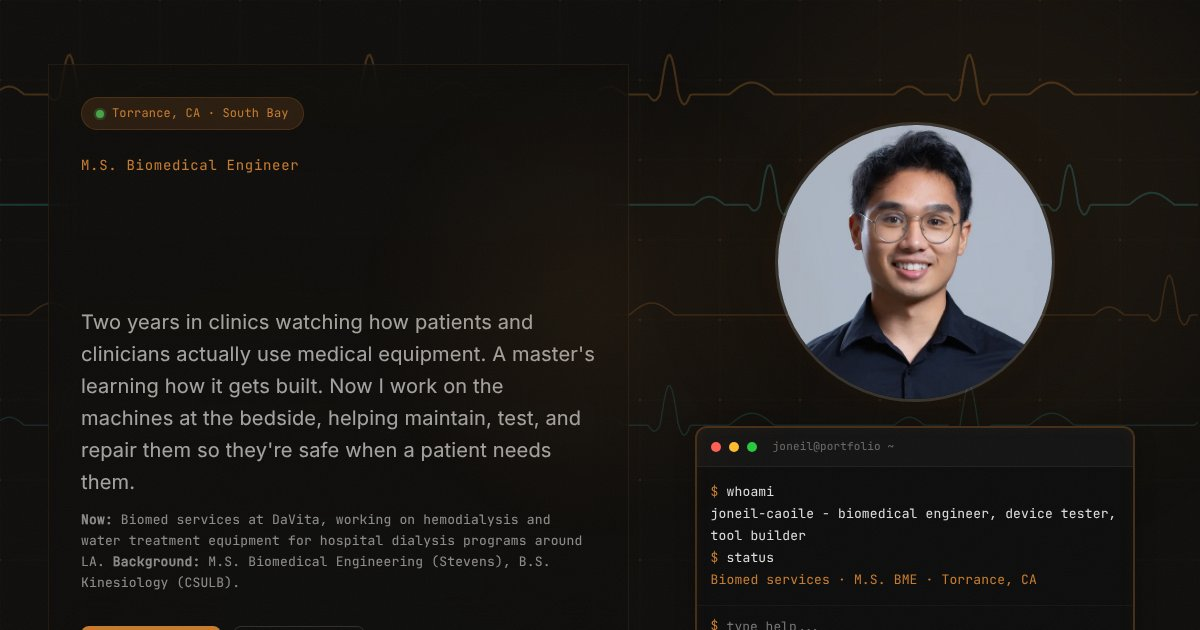
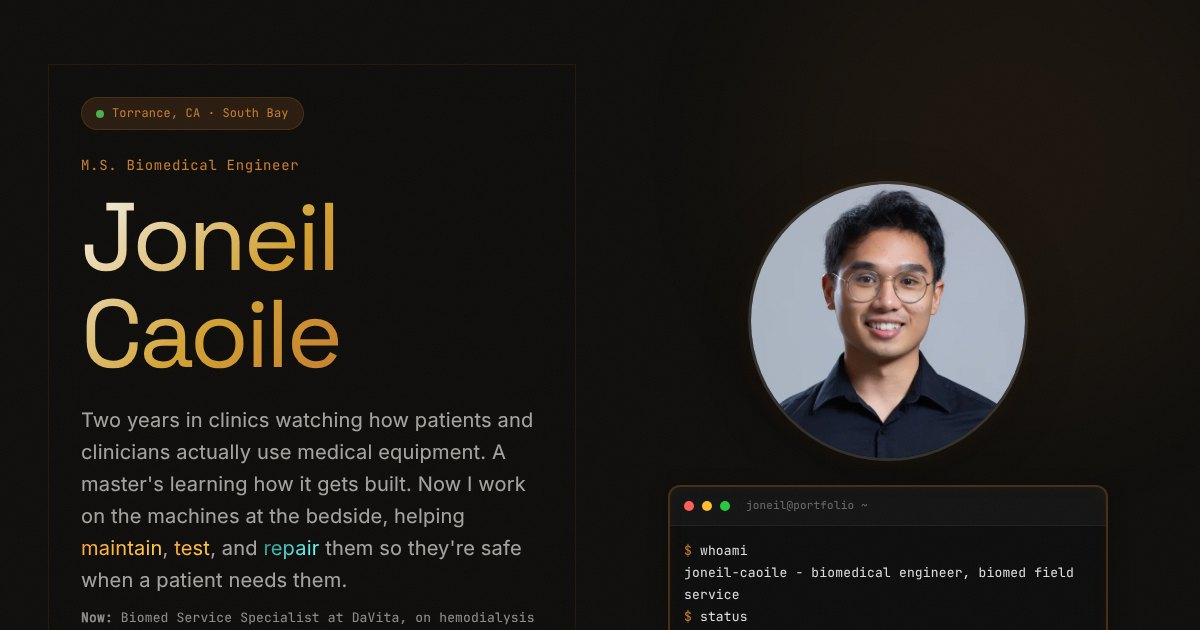
Refresh link preview image, lead project row with quality/data work, jobTitle + manifest accuracy
Claude-Session: https://claude.ai/code/session_0199qXEQ38rQHgeaM2zPFDYQ

diff --git a/index.html b/index.html
@@ -65,7 +65,8 @@
     "name": "Joneil Caoile",
     "url": "https://joneilcaoile.github.io",
     "image": "https://joneilcaoile.github.io/headshot.webp",
-    "jobTitle": "Biomedical Engineer",
+    "jobTitle": "Biomed Service Specialist",
+    "worksFor": {"@type": "Organization", "name": "DaVita"},
     "description": "Joneil Caoile, M.S. Biomedical Engineering (Stevens, 3.96 GPA). Biomed Service Specialist at DaVita on hemodialysis and RO water equipment. Bench-tested capstone device, clinical research, and clinical data projects. 400+ clinical hours. Torrance, CA.",
     "email": "joneilcaoile@gmail.com",
     "telephone": "+1-424-421-9173",
@@ -4181,72 +4182,6 @@ html, body { overflow-x: clip; }
     <h2 class="r">Seven more projects. Zero fluff.</h2>
     <div class="work-grid">
 
-      <!-- Biofeedback Study -->
-      <div class="work-card r">
-        <div class="work-card-visual" style="background:linear-gradient(145deg, #0a1a14 0%, #0e2a1e 40%, #10201a 100%)">
-          <div class="pipeline">
-            <div class="pipe-node"><div class="pipe-icon">🎯</div><div class="pipe-label">Motion Cap</div></div>
-            <div class="pipe-arrow"><svg viewBox="0 0 20 12"><path d="M2 6h14l-4-4M16 6l-4 4" fill="none"/></svg></div>
-            <div class="pipe-node"><div class="pipe-icon">🔊</div><div class="pipe-label">Audio Cue</div></div>
-            <div class="pipe-arrow"><svg viewBox="0 0 20 12"><path d="M2 6h14l-4-4M16 6l-4 4" fill="none"/></svg></div>
-            <div class="pipe-node"><div class="pipe-icon">🦵</div><div class="pipe-label">Knee Align</div></div>
-          </div>
-        </div>
-        <div class="work-card-body">
-          <div class="work-card-meta">
-            <span class="work-card-rarity rarity--rare">RARE</span>
-            <span class="work-card-category">Biofeedback / Clinical Research</span>
-          </div>
-          <h3>Biofeedback Rehab Study</h3>
-          <p>Motion-capture study testing real-time audio feedback to improve knee alignment during Taekwondo kicks. Study and iteration lead on a 4-person team, from study design through data analysis.</p>
-          <div class="work-card-outcome">3 athletes analyzed · Audio cue checked against motion-capture data</div>
-          <div class="work-card-roles"><span class="work-card-role">Clinical Research</span><span class="work-card-role">R&D</span><span class="work-card-role">Test</span></div>
-          <div class="work-card-evidence">OptiTrack motion capture · EMG + joint-angle analysis in MATLAB · Max/MSP audio feedback system</div>
-          <div class="work-card-tags">
-            <span class="work-card-tag">MATLAB</span>
-            <span class="work-card-tag">OptiTrack</span>
-            <span class="work-card-tag">Max/MSP</span>
-            <span class="work-card-tag">Usability Testing</span>
-          </div>
-          <div class="work-card-links">
-            <a href="case-biofeedback.html">Case Study →</a>
-          </div>
-        </div>
-      </div>
-
-      <!-- EMG Cuff -->
-      <div class="work-card r">
-        <div class="work-card-visual" style="background:linear-gradient(145deg, #1a0d1a 0%, #2e1428 40%, #1a1028 100%)">
-          <div class="pipeline">
-            <div class="pipe-node"><div class="pipe-icon">💪</div><div class="pipe-label">EMG Signal</div></div>
-            <div class="pipe-arrow"><svg viewBox="0 0 20 12"><path d="M2 6h14l-4-4M16 6l-4 4" fill="none"/></svg></div>
-            <div class="pipe-node"><div class="pipe-icon">📈</div><div class="pipe-label">4-8 Hz Filter</div></div>
-            <div class="pipe-arrow"><svg viewBox="0 0 20 12"><path d="M2 6h14l-4-4M16 6l-4 4" fill="none"/></svg></div>
-            <div class="pipe-node"><div class="pipe-icon">🎯</div><div class="pipe-label">Suppress Tremor</div></div>
-          </div>
-        </div>
-        <div class="work-card-body">
-          <div class="work-card-meta">
-            <span class="work-card-rarity rarity--rare">RARE</span>
-            <span class="work-card-category">Wearable / Simulation</span>
-          </div>
-          <h3>EMG Tremor-Suppression Cuff</h3>
-          <p>Wearable EMG cuff concept for Parkinson&#39;s tremor. I built a Python simulation from scratch to check tremor-detection timing and controller response before any hardware, with pass/fail criteria set from physiological benchmarks. Simulation only; the hardware stayed at concept stage.</p>
-          <div class="work-card-outcome">4-8 Hz tremor band · About 45% simulated tremor reduction · Detection fit r = 0.994</div>
-          <div class="work-card-roles"><span class="work-card-role">R&D</span><span class="work-card-role">Test</span></div>
-          <div class="work-card-evidence">Python simulation (NumPy/SciPy) · Pass/fail criteria for detection latency and suppression accuracy · RMSE about 0.12</div>
-          <div class="work-card-tags">
-            <span class="work-card-tag">EMG Processing</span>
-            <span class="work-card-tag">Signal Processing</span>
-            <span class="work-card-tag">Python</span>
-            <span class="work-card-tag">Simulation</span>
-          </div>
-          <div class="work-card-links">
-            <a href="case-emg.html">Case Study →</a>
-          </div>
-        </div>
-      </div>
-
       <!-- Fall Study Reliability Tool -->
       <div class="work-card r">
         <div class="work-card-visual" style="background:linear-gradient(145deg, #0a1618 0%, #102828 40%, #0d2020 100%)">
@@ -4346,6 +4281,39 @@ html, body { overflow-x: clip; }
         </div>
       </div>
 
+      <!-- EMG Cuff -->
+      <div class="work-card r">
+        <div class="work-card-visual" style="background:linear-gradient(145deg, #1a0d1a 0%, #2e1428 40%, #1a1028 100%)">
+          <div class="pipeline">
+            <div class="pipe-node"><div class="pipe-icon">💪</div><div class="pipe-label">EMG Signal</div></div>
+            <div class="pipe-arrow"><svg viewBox="0 0 20 12"><path d="M2 6h14l-4-4M16 6l-4 4" fill="none"/></svg></div>
+            <div class="pipe-node"><div class="pipe-icon">📈</div><div class="pipe-label">4-8 Hz Filter</div></div>
+            <div class="pipe-arrow"><svg viewBox="0 0 20 12"><path d="M2 6h14l-4-4M16 6l-4 4" fill="none"/></svg></div>
+            <div class="pipe-node"><div class="pipe-icon">🎯</div><div class="pipe-label">Suppress Tremor</div></div>
+          </div>
+        </div>
+        <div class="work-card-body">
+          <div class="work-card-meta">
+            <span class="work-card-rarity rarity--rare">RARE</span>
+            <span class="work-card-category">Wearable / Simulation</span>
+          </div>
+          <h3>EMG Tremor-Suppression Cuff</h3>
+          <p>Wearable EMG cuff concept for Parkinson&#39;s tremor. I built a Python simulation from scratch to check tremor-detection timing and controller response before any hardware, with pass/fail criteria set from physiological benchmarks. Simulation only; the hardware stayed at concept stage.</p>
+          <div class="work-card-outcome">4-8 Hz tremor band · About 45% simulated tremor reduction · Detection fit r = 0.994</div>
+          <div class="work-card-roles"><span class="work-card-role">R&D</span><span class="work-card-role">Test</span></div>
+          <div class="work-card-evidence">Python simulation (NumPy/SciPy) · Pass/fail criteria for detection latency and suppression accuracy · RMSE about 0.12</div>
+          <div class="work-card-tags">
+            <span class="work-card-tag">EMG Processing</span>
+            <span class="work-card-tag">Signal Processing</span>
+            <span class="work-card-tag">Python</span>
+            <span class="work-card-tag">Simulation</span>
+          </div>
+          <div class="work-card-links">
+            <a href="case-emg.html">Case Study →</a>
+          </div>
+        </div>
+      </div>
+
       <!-- IRB Protocol: BME 509 -->
       <div class="work-card r">
         <div class="work-card-visual" style="background:linear-gradient(145deg, #0d1a18 0%, #122a26 40%, #0a201c 100%)">
@@ -4375,6 +4343,39 @@ html, body { overflow-x: clip; }
           </div>
           <div class="work-card-links">
             <a href="case-irb-nanomedicine.html">Case Study →</a>
+          </div>
+        </div>
+      </div>
+
+      <!-- Biofeedback Study -->
+      <div class="work-card r">
+        <div class="work-card-visual" style="background:linear-gradient(145deg, #0a1a14 0%, #0e2a1e 40%, #10201a 100%)">
+          <div class="pipeline">
+            <div class="pipe-node"><div class="pipe-icon">🎯</div><div class="pipe-label">Motion Cap</div></div>
+            <div class="pipe-arrow"><svg viewBox="0 0 20 12"><path d="M2 6h14l-4-4M16 6l-4 4" fill="none"/></svg></div>
+            <div class="pipe-node"><div class="pipe-icon">🔊</div><div class="pipe-label">Audio Cue</div></div>
+            <div class="pipe-arrow"><svg viewBox="0 0 20 12"><path d="M2 6h14l-4-4M16 6l-4 4" fill="none"/></svg></div>
+            <div class="pipe-node"><div class="pipe-icon">🦵</div><div class="pipe-label">Knee Align</div></div>
+          </div>
+        </div>
+        <div class="work-card-body">
+          <div class="work-card-meta">
+            <span class="work-card-rarity rarity--rare">RARE</span>
+            <span class="work-card-category">Biofeedback / Clinical Research</span>
+          </div>
+          <h3>Biofeedback Rehab Study</h3>
+          <p>Motion-capture study testing real-time audio feedback to improve knee alignment during Taekwondo kicks. Study and iteration lead on a 4-person team, from study design through data analysis.</p>
+          <div class="work-card-outcome">3 athletes analyzed · Audio cue checked against motion-capture data</div>
+          <div class="work-card-roles"><span class="work-card-role">Clinical Research</span><span class="work-card-role">R&D</span><span class="work-card-role">Test</span></div>
+          <div class="work-card-evidence">OptiTrack motion capture · EMG + joint-angle analysis in MATLAB · Max/MSP audio feedback system</div>
+          <div class="work-card-tags">
+            <span class="work-card-tag">MATLAB</span>
+            <span class="work-card-tag">OptiTrack</span>
+            <span class="work-card-tag">Max/MSP</span>
+            <span class="work-card-tag">Usability Testing</span>
+          </div>
+          <div class="work-card-links">
+            <a href="case-biofeedback.html">Case Study →</a>
           </div>
         </div>
       </div>
